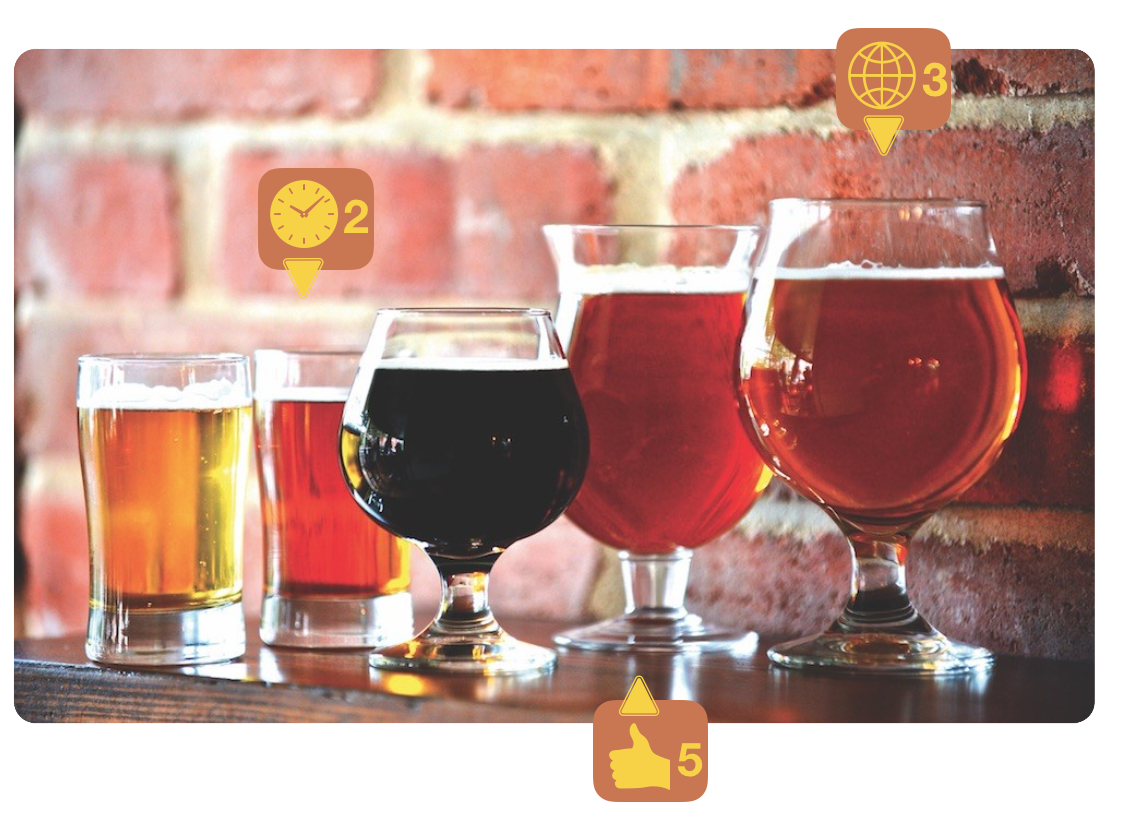
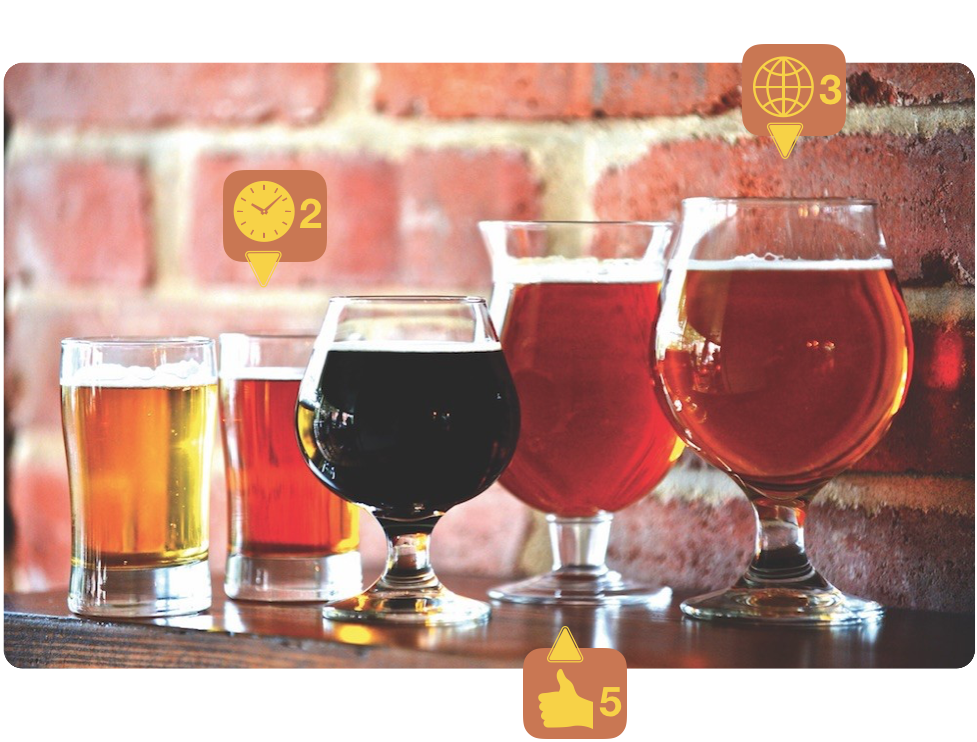
carousel done

diff --git a/client-final-project/src/app/signup-login/signup-login.component.html b/client-final-project/src/app/signup-login/signup-login.component.html
@@ -2,10 +2,30 @@
   <div class="title-container">
     <h1>Friendly Beer Finder</h1>
   </div>
-  <div class="image-container">
-    <img src="../assets/images/beer-finder-1.png" width="700px">
+
+  <div id="myCarousel" class="carousel slide" data-ride="carousel">
+  <!-- Indicators -->
+  <ol class="carousel-indicators">
+    <li data-target="#myCarousel" data-slide-to="0" class="active"></li>
+    <li data-target="#myCarousel" data-slide-to="1"></li>
+    <!-- <li data-target="#myCarousel" data-slide-to="2"></li> -->
+  </ol>
+
+  <!-- Wrapper for slides -->
+  <div class="carousel-inner">
+
+    <div class="item active">
+      <img src="../assets/images/beer-finder-1.png" width="700px" height="500px">
+    </div>
+
+    <div class="item">
+      <img src="../assets/images/beer-finder-2.png" width="700px" height="500px">
+    </div>
+
+    </div>
   </div>
 </div>
+
 <div class="container right-panel col-lg-4 col-md-4 col-sm-4 col-xs-4">
 
   <h2 id="slogan" style="text-align:center">Join a social platform for craft beer aficionados.</h2>
